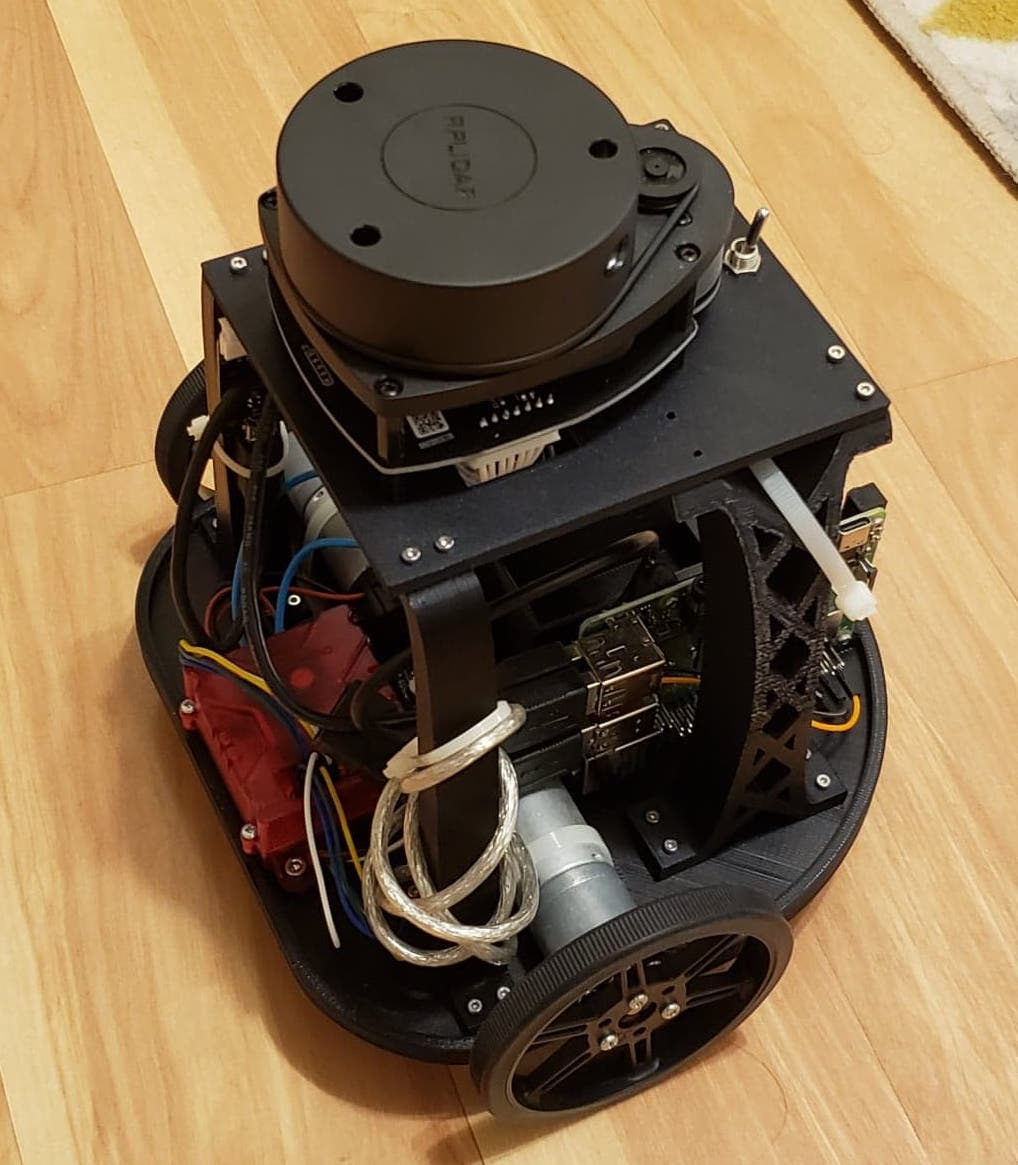
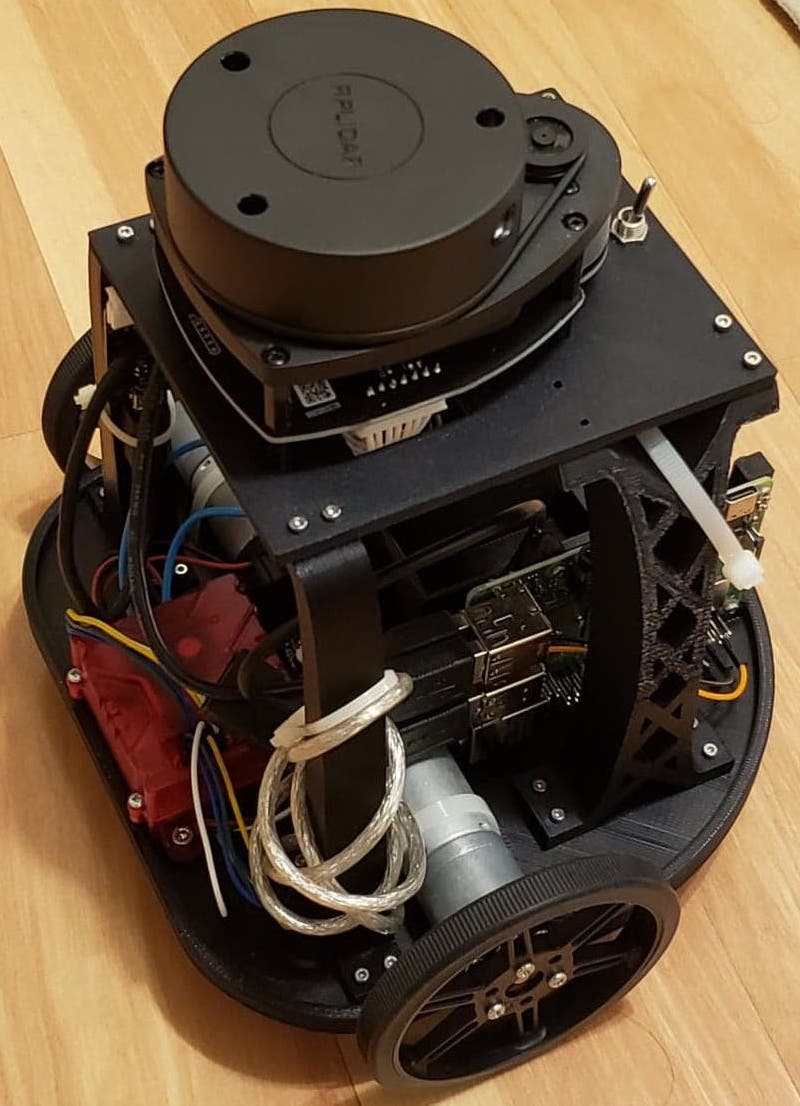
adding stuff

diff --git a/index.html b/index.html
@@ -46,7 +46,7 @@
           </tr>
         </tbody></table>
         <table style="width:100%;border:0px;border-spacing:0px;border-collapse:separate;margin-right:auto;margin-left:auto;"><tbody>
-
+          <!-- below is an example of doing the fancy mouseover thing -->
           <!-- <tr onmouseout="hypernerf_stop()" onmouseover="hypernerf_start()">
             <td style="padding:20px;width:25%;vertical-align:middle">
               <div class="one">
@@ -124,24 +124,26 @@ for Topologically Varying Neural Radiance Fields</papertitle>
             </td>
           </tr>
         </tbody></table>
-        <table width="100%" align="center" border="0" cellpadding="20"><tbody>
+        <table width="100%" align="center" border="0" cellpadding="0"><tbody>
           <tr>
-            <td style="padding:20px;width:25%;vertical-align:middle">
-              <img src="images/segway_pic.jpeg" alt="segway" height="150">
+            <td style="padding:0px;width:40%;vertical-align:middle;text-align:center;">
+              <a href="images/segway_pic.jpeg"><img src="images/segway_pic.jpeg" alt="segway" height="210"></a>
             </td>
             <td width="75%" valign="center">
-              <a href="https://github.com/kerrj/segway">Miniature self-balancing robot</a>, built from scratch using off-the-shelf parts and able to drive around using model-predictive control.
+              <a href="https://github.com/kerrj/segway">Miniature self-balancing robot</a>, built from scratch using off-the-shelf parts and 
+              able to follow waypoints using model-predictive control for balance and 
+              <a href="https://www.ri.cmu.edu/pub_files/pub3/coulter_r_craig_1992_1/coulter_r_craig_1992_1.pdf">pure pursuit</a> for path following.
             </td>
           </tr>
           <tr>
-            <td style="padding:20px;width:25%;vertical-align:middle">
-              <img src="images/mapper_pic.jpeg" alt="mapping robot" height="150">
-              <img src="images/map_pic.png" alt="map" height="150">
+            <td style="padding:20px;width:40%;vertical-align:middle;text-align: center;">
+              <a href="images/mapper_pic.jpeg"><img src="images/mapper_pic.jpeg" alt="mapping robot" height="182"></a>
+              <a href="images/map_pic.png"><img src="images/map_pic.png" alt="map" height="182"></a>
             </td>
             <td width="75%" valign="center">
-              <a href="https://github.com/kerrj/mapper">Indoor mapping robot</a> which autonomously mapped my house using a 
+              <a href="https://github.com/kerrj/mapper">Indoor mapping robot</a> built from scratch with a cheap planar lidar which autonomously mapped my house using a 
               <a href="https://research.google/pubs/pub45466/">Google Cartographer</a>-inspired SLAM algorithm, 
-                alongside a grid planner for exploration and <a href="https://en.wikipedia.org/wiki/Dynamic_window_approach">DWA</a> controller for path following.
+                alongside a grid path planner for exploration and <a href="https://en.wikipedia.org/wiki/Dynamic_window_approach">DWA</a> controller for path following. 
             </td>
           </tr>
         </tbody></table>
